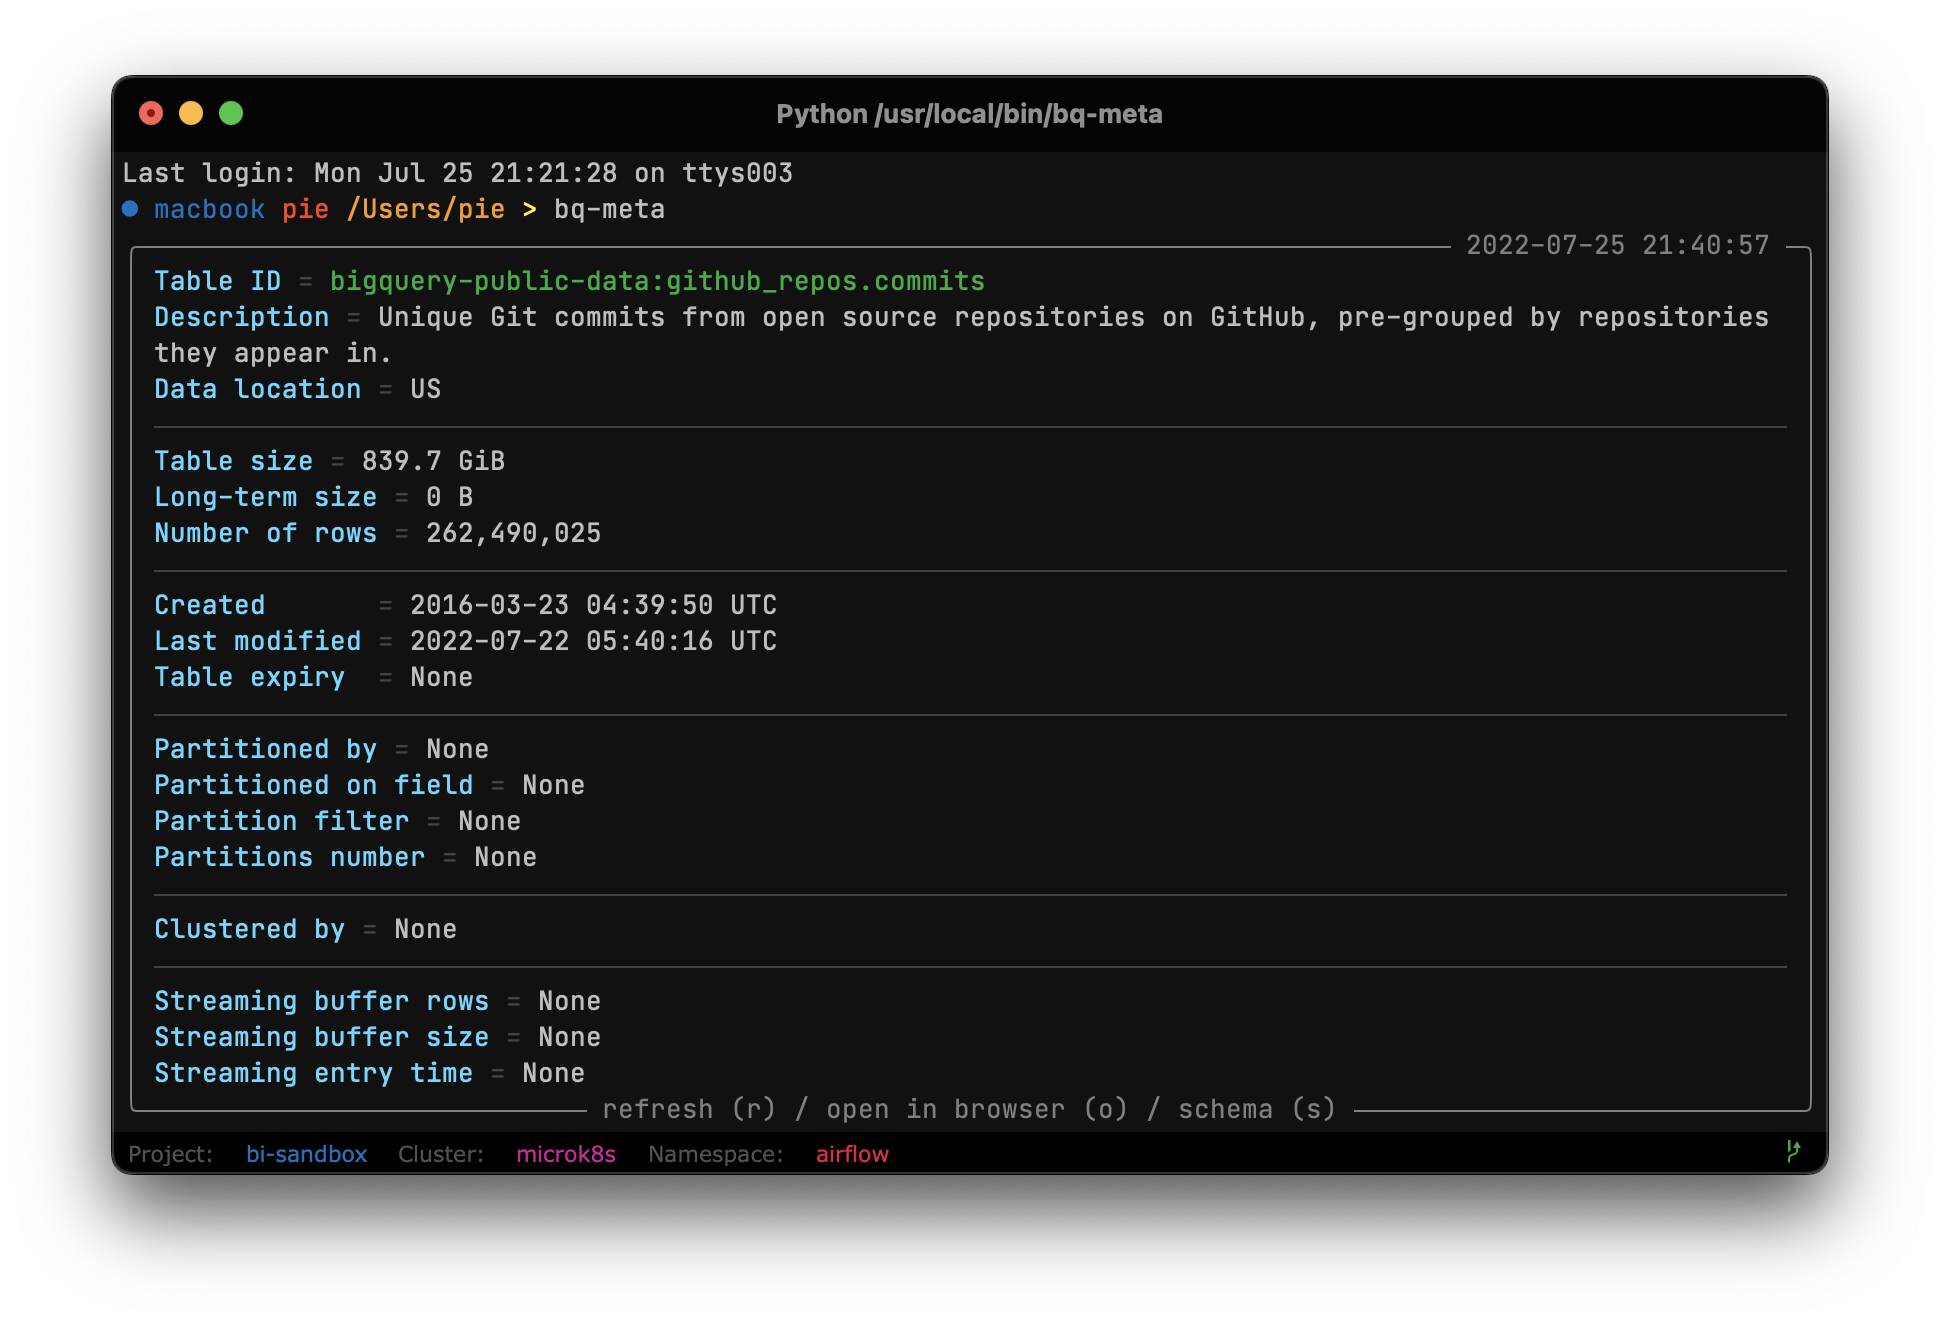
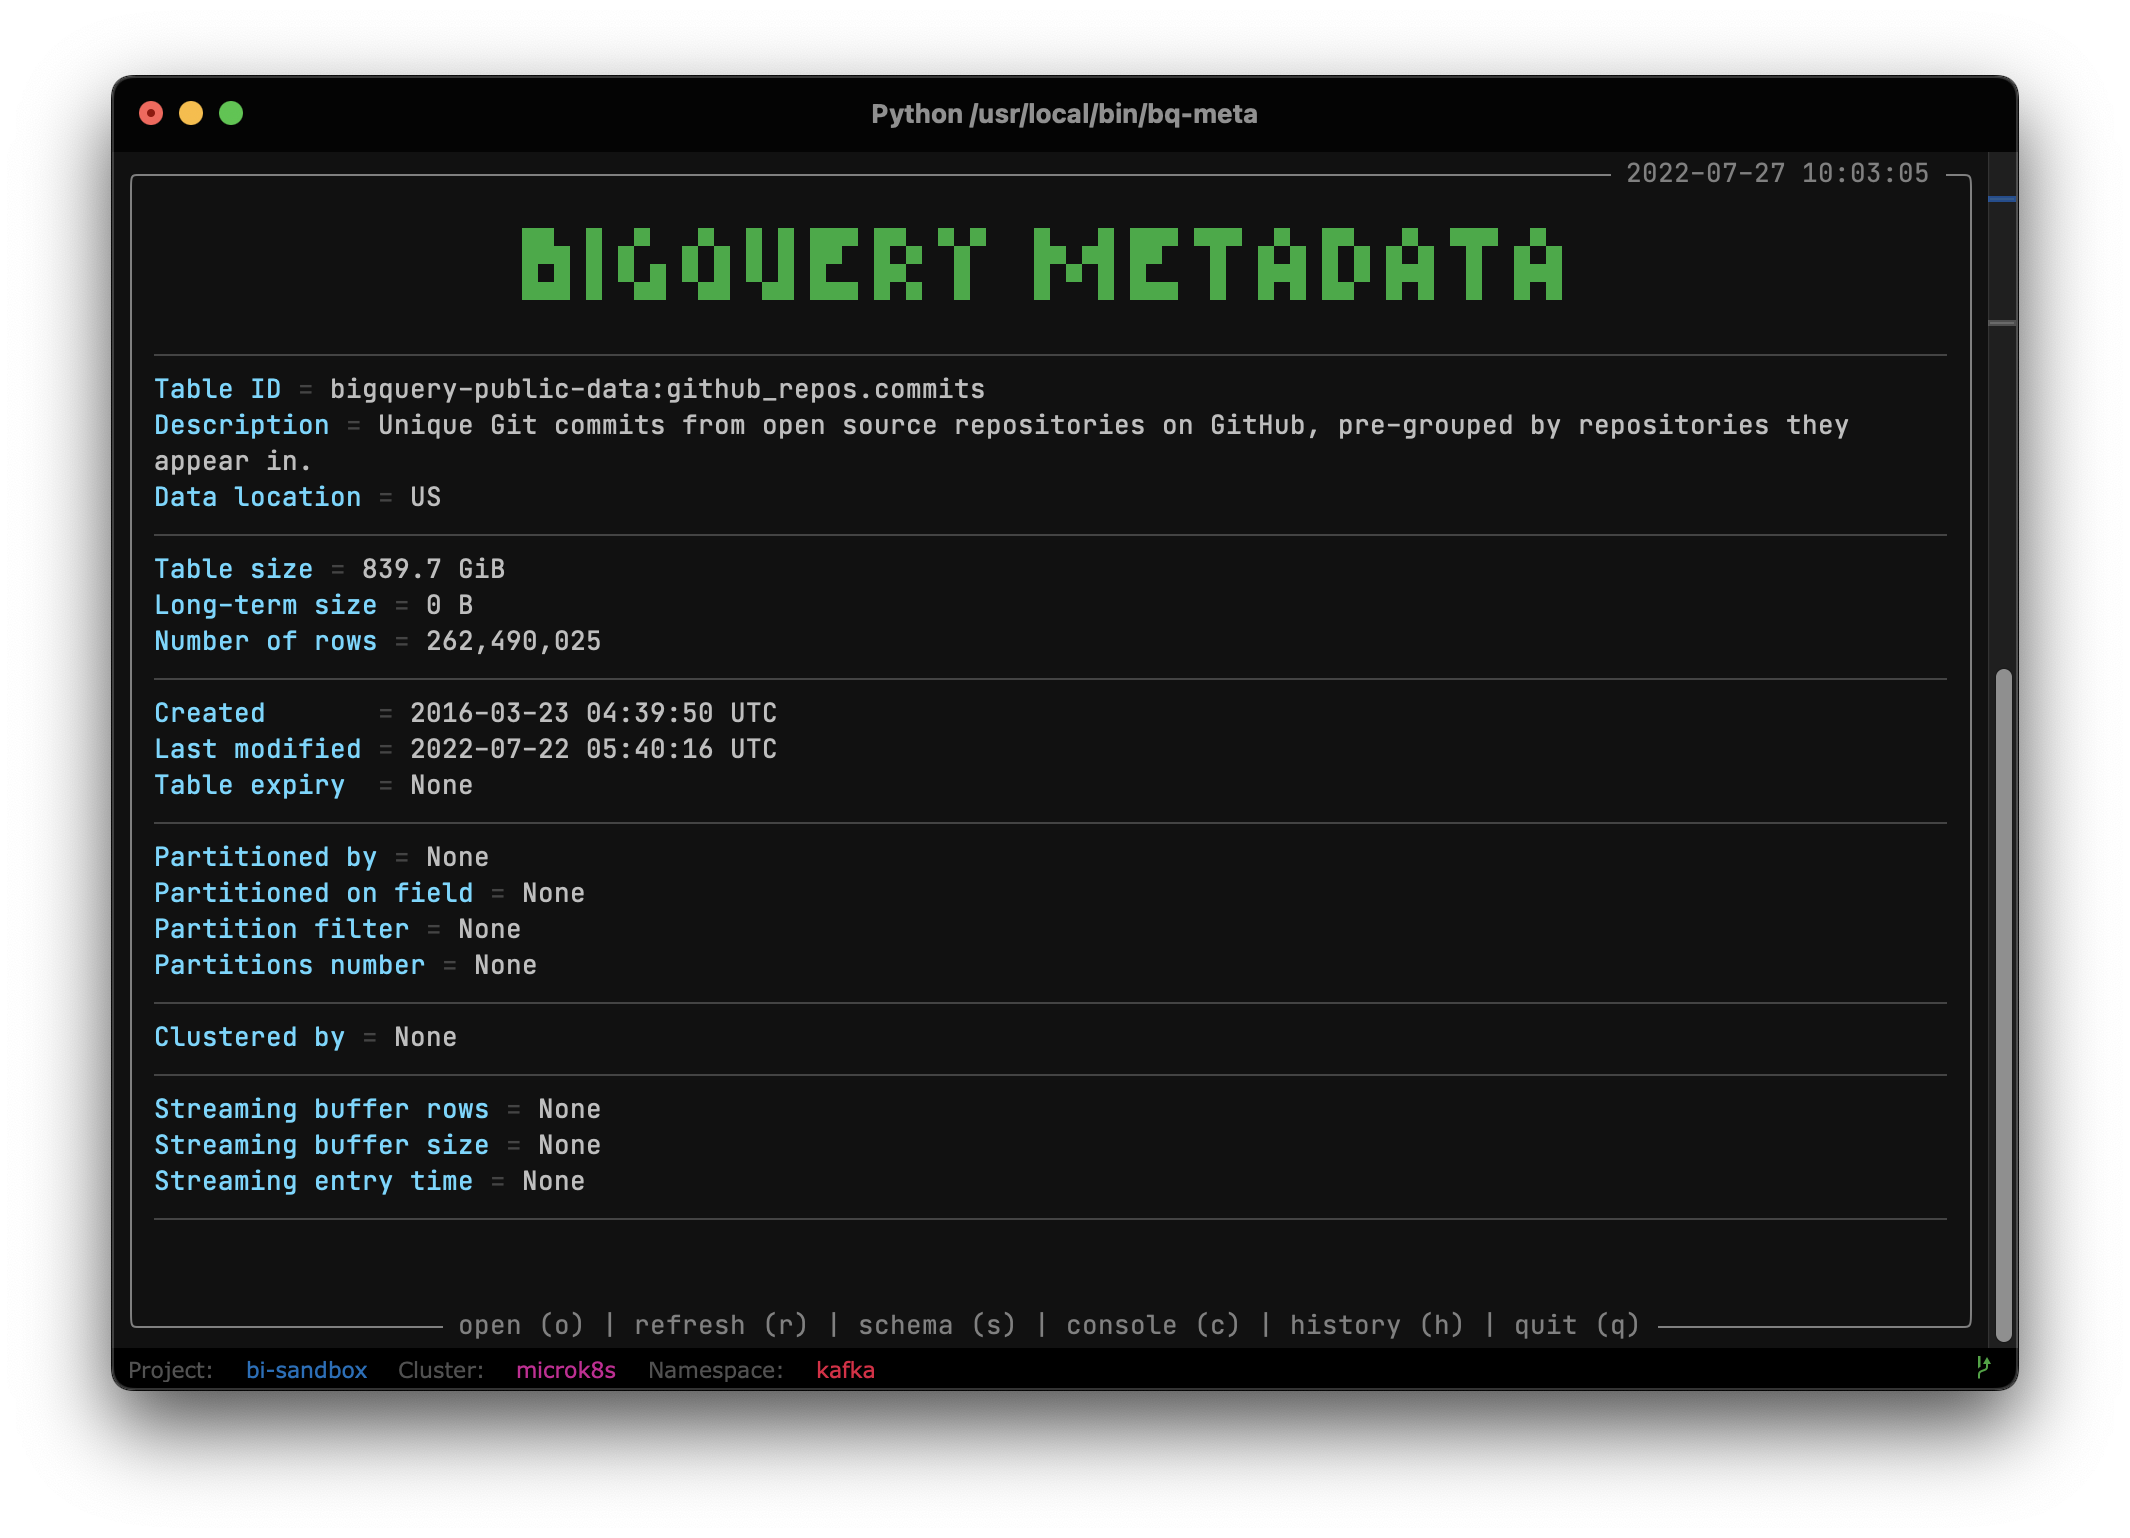
Simplyfied cli

Changed region(s): [[0.0309, 0.031, 0.9588, 0.9614], [0.7732, 0.1551, 0.8041, 0.1861]]

diff --git a/bq_meta/__init__.py b/bq_meta/__init__.py
@@ -1,0 +1,8 @@
+"""
+██████╗ ██╗ ██████╗  ██████╗ ██╗   ██╗███████╗██████╗ ██╗   ██╗    ███╗   ███╗███████╗████████╗ █████╗ ██████╗  █████╗ ████████╗ █████╗ 
+██╔══██╗██║██╔════╝ ██╔═══██╗██║   ██║██╔════╝██╔══██╗╚██╗ ██╔╝    ████╗ ████║██╔════╝╚══██╔══╝██╔══██╗██╔══██╗██╔══██╗╚══██╔══╝██╔══██╗
+██████╔╝██║██║  ███╗██║   ██║██║   ██║█████╗  ██████╔╝ ╚████╔╝     ██╔████╔██║█████╗     ██║   ███████║██║  ██║███████║   ██║   ███████║
+██╔══██╗██║██║   ██║██║▄▄ ██║██║   ██║██╔══╝  ██╔══██╗  ╚██╔╝      ██║╚██╔╝██║██╔══╝     ██║   ██╔══██║██║  ██║██╔══██║   ██║   ██╔══██║
+██████╔╝██║╚██████╔╝╚██████╔╝╚██████╔╝███████╗██║  ██║   ██║       ██║ ╚═╝ ██║███████╗   ██║   ██║  ██║██████╔╝██║  ██║   ██║   ██║  ██║
+╚═════╝ ╚═╝ ╚═════╝  ╚══▀▀═╝  ╚═════╝ ╚══════╝╚═╝  ╚═╝   ╚═╝       ╚═╝     ╚═╝╚══════╝   ╚═╝   ╚═╝  ╚═╝╚═════╝ ╚═╝  ╚═╝   ╚═╝   ╚═╝  ╚═╝                                   \▓▓▓▓▓▓                                                                                  
+"""

diff --git a/bq_meta/cli.py b/bq_meta/cli.py
@@ -29,21 +29,13 @@ def get_client(config: Config):
 
 @click.command()
 @click.argument("full_table_id", required=False)
-@click.option("-p", "--project-id", help="Project name", default=None)
-@click.option("-d", "--dataset-id", help="Dataset name", default=None)
-@click.option("-t", "--table-id", help="Table name", default=None)
-@click.option("-h", "--history", help="Show history of past searched tables", is_flag=True)
-@click.option("--raw", help="View raw response from the BigQuery in json format", is_flag=True)
+@click.option("--raw", help="View raw response from the BigQuery for specific 'FULL_TABLE_ID'", is_flag=True)
 @click.option("--init", help="Initialize 'bq-meta' configuration", is_flag=True)
 @click.option("--info", help="Print info of currently used account", is_flag=True)
-@click.option("--fetch-projects", help="Fetch google projects", is_flag=True)
+@click.option("--fetch-projects", help="Fetch availabe google projects", is_flag=True)
 @click.version_option()
 def cli(
     full_table_id: Optional[str],
-    project_id: Optional[str],
-    dataset_id: Optional[str],
-    table_id: Optional[str],
-    history: Optional[int],
     raw: bool,
     init: bool,
     info: bool,
@@ -88,7 +80,5 @@ def cli(
         if raw:
             console.print_json(table_utils.get_properties(table))
             ctx.exit()
-    elif history:
-        table = history_service.pick_table()
 
     window.live_window(table)

diff --git a/README.md b/README.md
@@ -2,9 +2,10 @@
 
 > "Inspect BigQuery metadata faster"
 
-- quick search through available projects, dataset, tables
-- view table metadata and schema
-- open in browser
+- Interactive CLI
+- Quick search through available projects, datasets, tables
+- View up to date table's metadata and it's schema
+- Local history of searched tables
 
 ## Requirements
 
@@ -37,58 +38,60 @@ search through list of values (i.e. project, dataset, tables) is done using `fzf
     - create configuration
     - login to the google account using browser (Account is separated from `gcloud` cli)
 
-## Examples
+## Run
+
+To open interactive CLI, simply run
 
 ```bash
-Usage: bq-meta [OPTIONS] [FULL_TABLE_ID]
-
-  BiqQuery table metadata
-
-Options:
-  -p, --project-id TEXT  Project name
-  -d, --dataset-id TEXT  Dataset name
-  -t, --table-id TEXT    Table name
-  -h, --history          Show history of past searched tables
-  --raw                  View raw response from the BigQuery in json format
-  --init                 Initialize 'bq-meta' configuration
-  --info                 Print info of currently used account
-  --fetch-projects       Fetch google projects
-  --version              Show the version and exit.
-  --help                 Show this message and exit.
+bq-meta
 ```
+
+![cli](https://github.com/martintupy/bq-meta/raw/main/docs/cli.png)
 
 ### Table metadata
 
-To view table metadata, run `bq-meta` and follow through selection of
+To view table metadata, press `o` key and select through project, dataset, table.
 
-- project_id
-- dataset_id
-- table_id
+![metadata](https://github.com/martintupy/bq-meta/raw/main/docs/metadata.png)
 
-Or directly run bq-meta with full_table_id
+Table metadata can be refreshed, press `r` to fetch fresh metadata
+
+It's also possible to run `bq-meta` directly with `FULL_TABLE_ID`
 
 ```bash
 bq-meta bigquery-public-data:github_repos.commits
 ```
 
-![metadata](https://github.com/martintupy/bq-meta/raw/main/docs/metadata.png)
-
-Table metadata can be refreshed, press `r` to fetch fresh metadata, `bq-meta` will be running until any other key is pressed
-
 ### Table schema
 
-Once table metadata is opened, press `s` key
+Once table metadata is opened, press `s` key to view it's schema
 
 ![schema](https://github.com/martintupy/bq-meta/raw/main/docs/schema.png)
 
-### Open in browser
+### Open in console
 
-Same for opening in browser, after viewing table metadata press `o` key and table will opened in Google cloud console.
+You can open table in console.cloud.google.com by pressing `c` key
 
 ![browser](https://raw.githubusercontent.com/martintupy/bq-meta/main/docs/browser.png)
 
 ### Search history
 
-Every viewed metadata is saved to the history. To search through history, run `bq-meta --history` / `bq-meta -h` and view same table again
+Every viewed table is saved to the history. To search through history, press `h` key
 
 ![history](https://github.com/martintupy/bq-meta/raw/main/docs/history.png)
+
+### Other
+
+```bash
+Usage: python -m bq_meta [OPTIONS] [FULL_TABLE_ID]
+
+  BiqQuery metadata
+
+Options:
+  --raw             View raw response from the BigQuery for specific 'FULL_TABLE_ID'
+  --init            Initialize 'bq-meta' configuration
+  --info            Print info of currently used account
+  --fetch-projects  Fetch availabe google projects
+  --version         Show the version and exit.
+  --help            Show this message and exit.
+```
